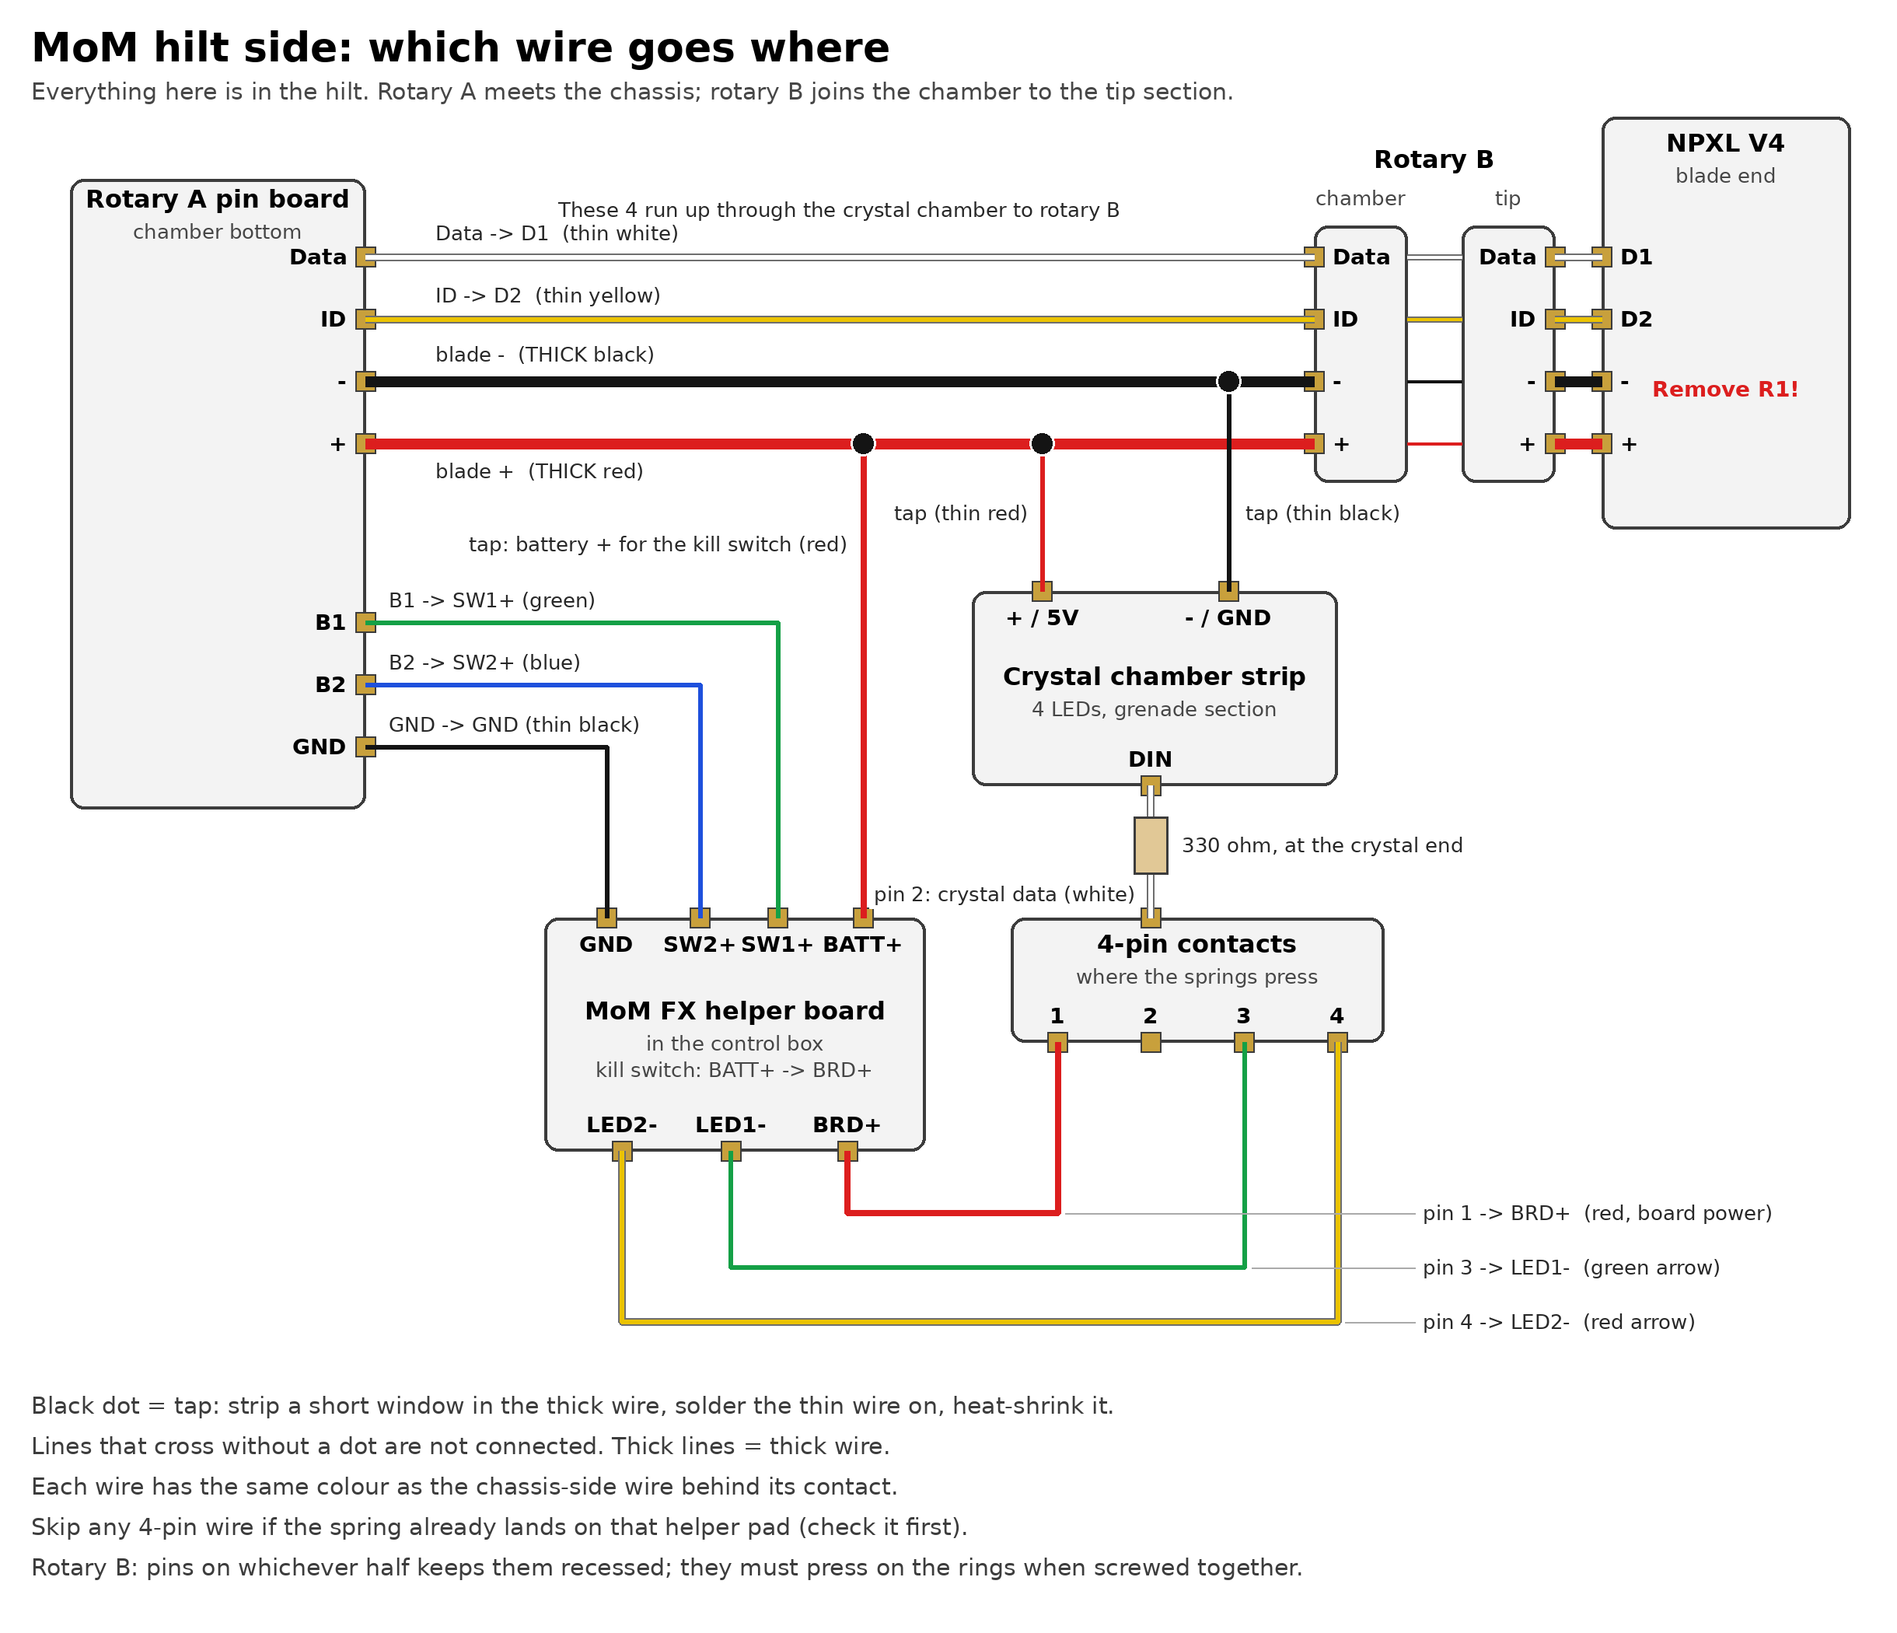
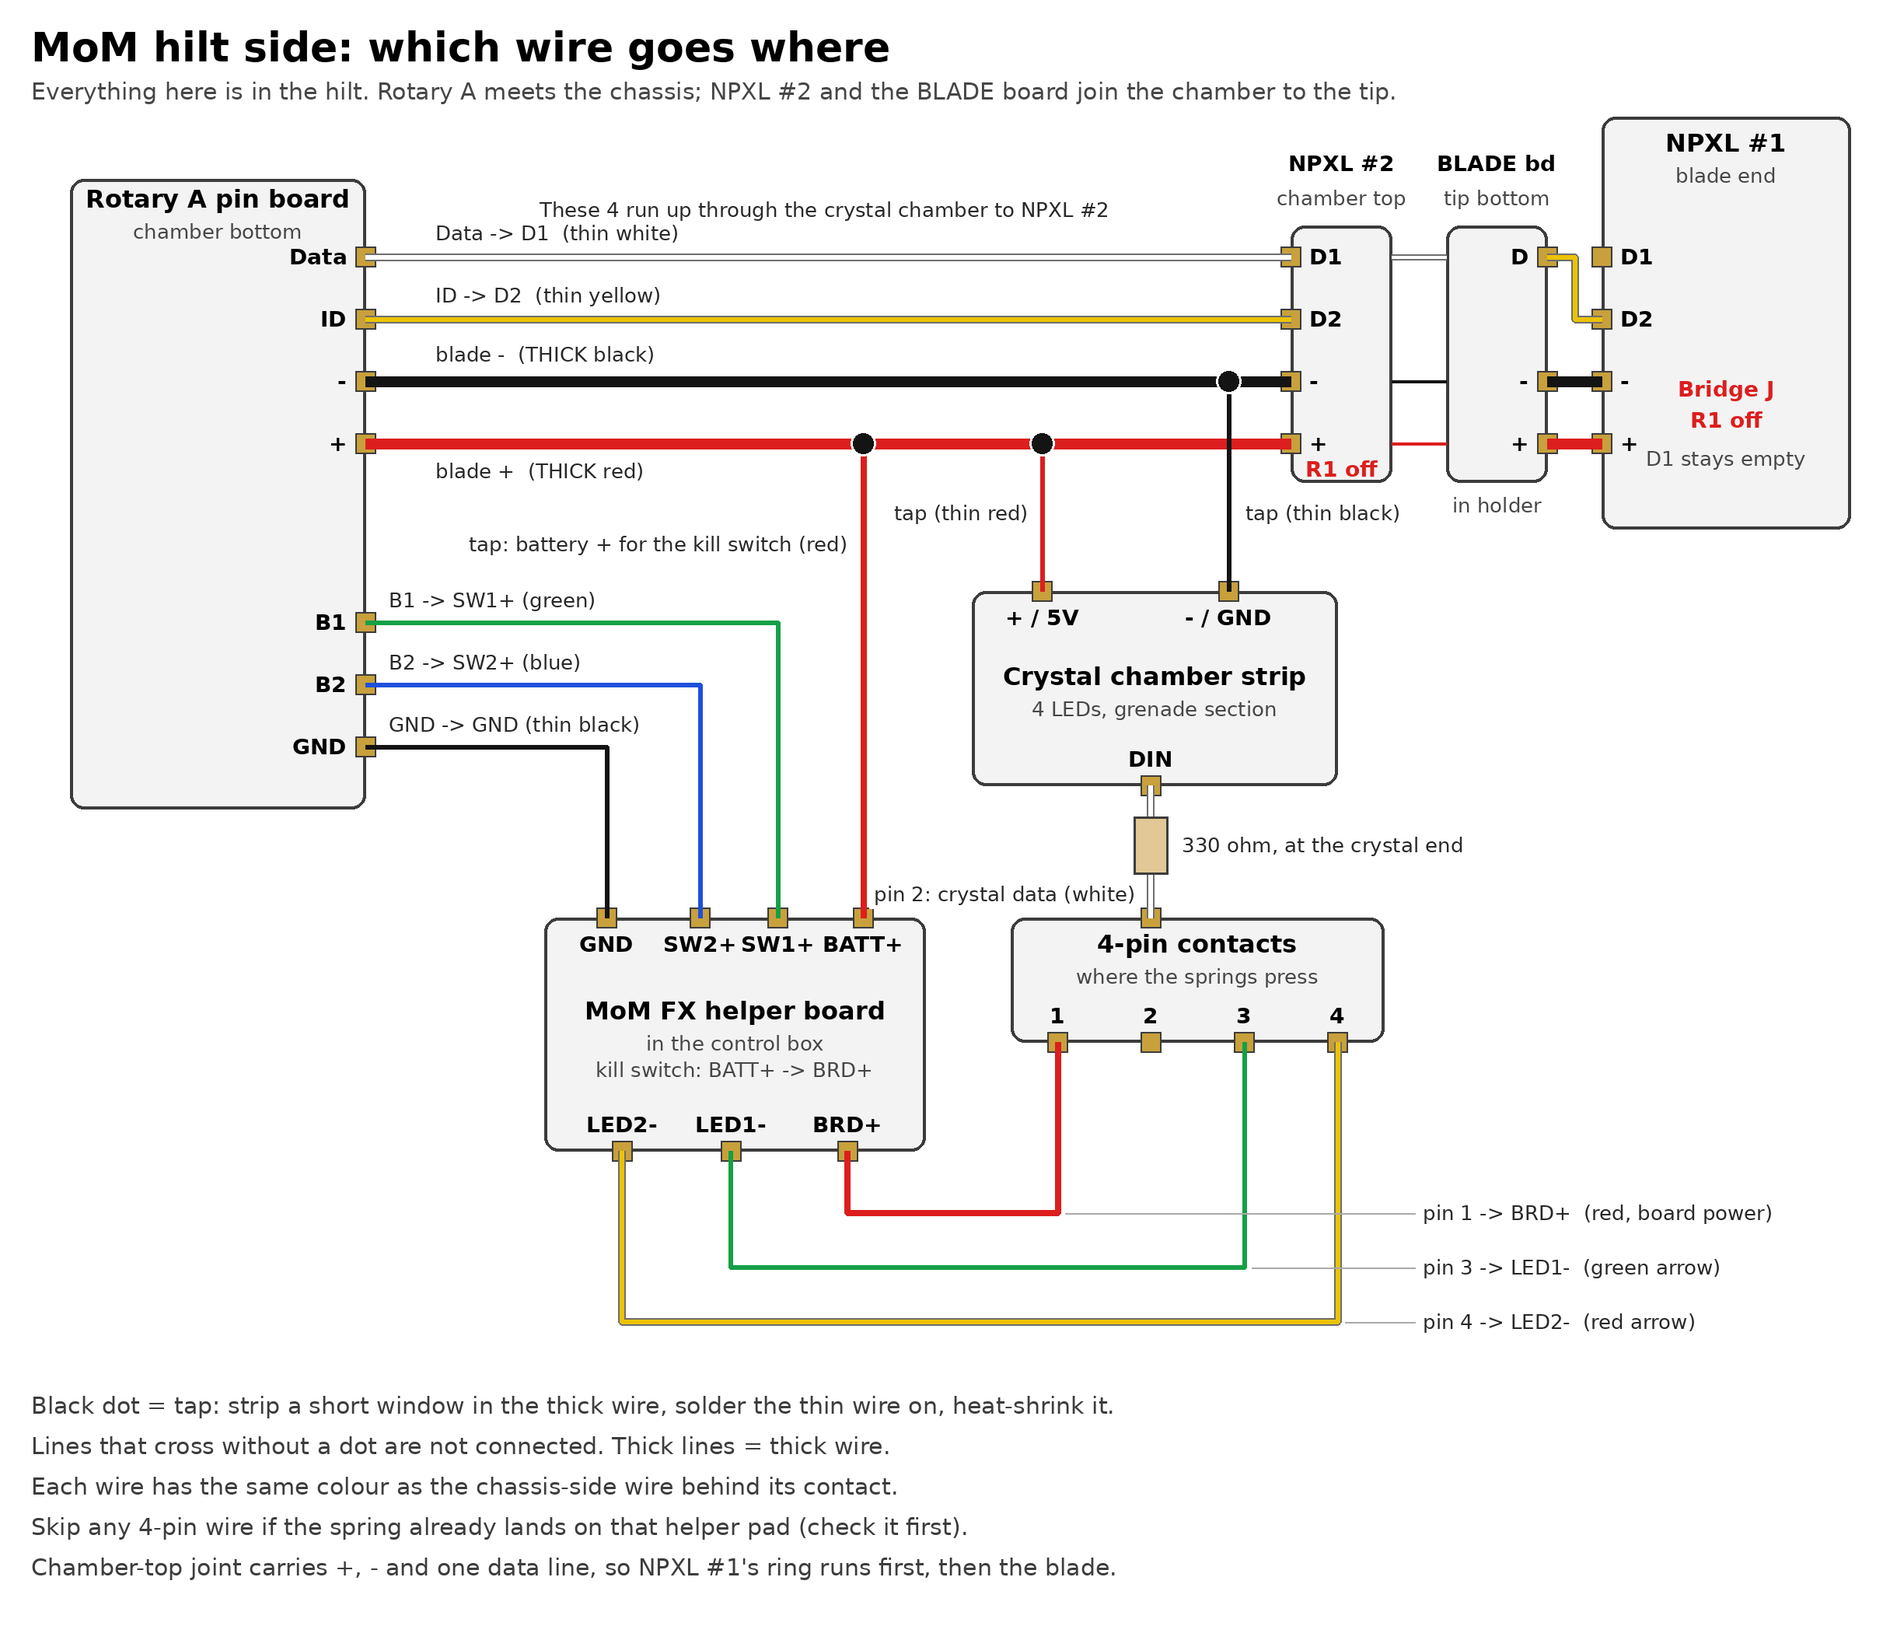
Join the crystal chamber to the tip with NPXL #2 and the BLADE board
No CHC part fits at the top of the chamber. NPXL #2 sits there pins up
and presses on the BLADE board in the designer's pixel holder, which
passes +, - and one data line. NPXL #1 at the blade end is chained
(Option 3). The config change for the longer data chain is still to do.

Claude-Session: https://claude.ai/code/session_01265pwD5zDbVVSh7CxSi4nL

diff --git a/saber-wiring/README.md b/saber-wiring/README.md
@@ -17,8 +17,9 @@ The configurator doesn't know about the Shtok rotary connector or the MoM helper
 | 18650 3120 mAh protected cell (1 of the 2) | Battery. Protected cells are a few mm longer than unprotected ones, so check it fits between the spring contacts |
 | Spring battery contacts | Hold the battery; it comes out to charge |
 | 2 A charger | External, shared with the Obi-Wan. There's no charge port in this build |
-| Shtok Rotary NeoPixel & 2 Button PCB connector set (2 sets) | **A** joins the removable chassis to the bottom of the crystal chamber: power, blade data, connector-LED data and both buttons. **B** joins the top of the crystal chamber to the tip section: power and both data lines |
-| Shtok NPXL V4 hilt-side connector + 1" holder | Where the blade plugs in. Has 16 LEDs of its own |
+| Shtok Rotary NeoPixel & 2 Button PCB connector set (1 set) | Joins the removable chassis to the bottom of the crystal chamber. Carries power, blade data, connector-LED data and both buttons |
+| Shtok NPXL V4 hilt-side connectors (2) + 1" holder | **#1**, in the 1" holder at the blade end, is where the blade plugs in. **#2** sits at the top of the crystal chamber, pins up. Each has 16 LEDs of its own |
+| Round **BLADE** board (Shtok blade-side NPXL board, 5 LEDs) + the designer's copper and black pixel holder | Sits at the bottom of the tip section, flat contacts down onto NPXL #2's pins. Joins the crystal chamber to the tip: +, − and one data line |
 | 330 Ω 0603 resistor (surface-mount chip marked "331", on a paper strip; 0603 is 1.6 × 0.8 mm) | In series on the **crystal chamber** data wire, at the crystal end. Tin both ends, solder the wire from 4-pin pin 2 to one end and the crystal's DIN to the other, then cover it with heat shrink |
 | WS2812 mini strip (cut 2–4 LEDs off) | Crystal chamber light |
 | 4-pin SMT spring-loaded connector | In the chassis end, beside the rotary ring board. The designer's spec: SMT, 2.5 × 10–11 mm, uncompressed pins no taller than 4 mm. Carries the kill-switch return and the two control-box lights (see "MoM FX helper board") |
@@ -35,14 +36,14 @@ The Saber Armory order covers both sabers.
 | Proffieboard v3.9 ×2 | 1 | 1 | |
 | FSC-BT909 Bluetooth PCB Unit ×2 | 1 | 1 | |
 | 28 mm 4 Ω 3 W speaker ×2 | 1 | 1 | |
-| Rotary NeoPixel & 2 Button connector set ×2 | 2: chassis to crystal chamber, and crystal chamber to tip | | |
+| Rotary NeoPixel & 2 Button connector set ×2 | 1: chassis to crystal chamber | | 1 spare |
 | Keeppower 18650 3120 mAh dual pack | 1 cell | | 1 spare cell |
 | Keeppower 21700 5000 mAh | | 1 | |
 | Spring Battery Contacts Set | ✓ | | |
 | Battery Contacts Set (Keystone) | | ✓ | |
-| NPXL V4 hilt side, short pins, assembled ×3 (17.5 mm) | 1 | 1 | 1 spare |
+| NPXL V4 hilt side, short pins, assembled ×3 (17.5 mm) | 2: blade end and top of crystal chamber | 1 | |
 | NPXL V3/V4 hilt-side holder 1" | ✓ | Not needed: its emitter takes the NPXL directly | |
-| NPXL blade-side LED board (the round "BLADE" board with 5 LEDs) | | ✓ | Spare if the Obi-Wan's blade arrives with its board installed |
+| NPXL blade-side LED board (the round "BLADE" board with 5 LEDs) | ✓ chamber-to-tip joint | | Only if the Obi-Wan's blade has its own contact board; check its end |
 | 330 Ω 0603 SMD resistor ×2 | 1 | 1 | |
 | WS2812 2020 mini strip, 10 LEDs | 2–4 LEDs | | The rest |
 | KR 128x32 OLED, white | | ✓ | |
@@ -174,6 +175,8 @@ Where each pad is on the back (the side printed **HILT**), from the manual's pag
 
 The manual's wire sizes for + and −: one 22 AWG, two 24 AWG or three 26 AWG wires each, soldered to any of that polarity's pads. Data wires can be 28–30 AWG.
 
+The MoM has two of these. **NPXL #2**, at the top of the crystal chamber, is wired as below (Option 4). **NPXL #1**, at the blade end, gets only one data line through the chamber-top joint, so it uses the manual's **Option 3**: data into **D2**, R1 removed, jumper **J** bridged, D1 left empty. Its 16 LEDs then come first in the chain and the blade follows.
+
 This is the manual's **Option 4**: blade and connector LEDs on separate data wires, which is also what the configurator draws. **Option 4 needs resistor R1 removed.** R1 is the tiny resistor next to D2, labeled R1 in the diagram. If R1 is still fitted, D1 and D2 are tied together through it, and two data outputs end up fighting each other. Leave R2 in place.
 
 The manual's own Proffieboard example for Option 4 matches this config: blade on Data1 and the connector's 16 LEDs on Data2, both on `PowerPINS<bladePowerPin2, bladePowerPin3>`, with `SHARED_POWER_PINS`. The only difference is that this config splits the 16 LEDs into two interleaved halves, as the configurator does. Both work.
@@ -196,7 +199,7 @@ This set has one data contact plus an **ID** contact. The blade and the connecto
 
 In the MoM the buttons do use B1, B2 and GND, because the 4-pin pogo is taken up by the kill switch and the control-box lights. On the hilt side, three short wires run from the pin board (CHC_M) to the helper board.
 
-The MoM uses a **second set (B)** too, because the crystal chamber comes off the tip section. Its two halves sit at the top of the crystal chamber and the bottom of the tip section, and it carries +, −, Data and ID across that joint. Its B1, B2 and GND contacts stay unused. Put its pin board on whichever side keeps the pins recessed.
+The joint between the crystal chamber and the tip section uses NPXL #2 and the BLADE board instead (see [Hilt side](#hilt-side-step-by-step)). No CHC part fits at the top of the chamber.
 
 ## MoM FX helper board
 
@@ -244,8 +247,9 @@ The config already drives LED1 and LED2 as two plain LEDs on LED5 and LED6 (blad
 
 None of the install videos show this wiring, so it's worked out from the parts' pinouts and the chassis designer's notes. The hilt side has three groups of wires:
 
-- **Up through the crystal chamber: 4 wires.** Blade + and − (thick), Data and ID (thin), from rotary **A**'s pin board at the bottom of the chamber to rotary **B** at its top. The crystal chamber comes off the tip section, so rotary B carries these four across that joint.
-- **Tip section: the same 4 wires.** From rotary B's other half down in the tip section, up to the NPXL. Nothing else goes above the crystal chamber.
+- **Up through the crystal chamber: 4 wires.** Blade + and − (thick), Data and ID (thin), from rotary **A**'s pin board at the bottom of the chamber to **NPXL #2** at its top, pins up. Its own 16 LEDs take ID (Data2).
+- **The chamber-to-tip joint:** NPXL #2's pins press on the **BLADE** board, held in the designer's copper and black pixel holder at the bottom of the tip section. Only +, − and one data line (the centre pin) cross it.
+- **Tip section: 3 wires.** From the BLADE board up to **NPXL #1** at the blade end. NPXL #1 is chained (Option 3): data into D2, J bridged, so its 16 LEDs come first and the blade follows.
 - **At the crystal chamber: 3 wires.** + and − tapped off the blade + and − wires as they pass, and data from 4-pin pin 2.
 - **At the helper board in the control box:** the buttons (B1, B2 and GND from the rotary pin board), battery + for the kill switch (a tap off blade +) and the 4-pin contacts.
 
@@ -253,14 +257,13 @@ None of the install videos show this wiring, so it's worked out from the parts' 
 
 | From | To | Wire | Colour |
 | --- | --- | --- | --- |
-| Rotary A pin board **+** | Rotary B (chamber half) **+** | Thick | Red |
-| Rotary A pin board **−** | Rotary B (chamber half) **−** | Thick | Black |
-| Rotary A pin board **Data** | Rotary B (chamber half) **Data** | Thin | White |
-| Rotary A pin board **ID** | Rotary B (chamber half) **ID** | Thin | Yellow |
-| Rotary B (tip half) **+** | NPXL **+** | Thick | Red |
-| Rotary B (tip half) **−** | NPXL **−** | Thick | Black |
-| Rotary B (tip half) **Data** | NPXL **D1** | Thin | White |
-| Rotary B (tip half) **ID** | NPXL **D2** | Thin | Yellow |
+| Rotary A pin board **+** | NPXL #2 **+** | Thick | Red |
+| Rotary A pin board **−** | NPXL #2 **−** | Thick | Black |
+| Rotary A pin board **Data** | NPXL #2 **D1** | Thin | White |
+| Rotary A pin board **ID** | NPXL #2 **D2** | Thin | Yellow |
+| BLADE board **+** (the four outer pads marked +) | NPXL #1 **+** | Thick | Red |
+| BLADE board **−** (the pads marked −) | NPXL #1 **−** | Thick | Black |
+| BLADE board **D** (top centre, above its resistor) | NPXL #1 **D2** | Thin | Yellow |
 | Rotary A pin board **B1** | Helper **SW1+** | Thin | Green |
 | Rotary A pin board **B2** | Helper **SW2+** | Thin | Blue |
 | Rotary A pin board **GND** | Helper **GND** | Thin | Black |
@@ -275,11 +278,11 @@ None of the install videos show this wiring, so it's worked out from the parts' 
 Each wire has the same colour as the chassis-side wire behind its contact, so a colour means the same thing end to end.
 
 1. **Find where the 4-pin springs land.** Fit the chassis and see what the four springs press on in the hilt. If they land on helper board pads, those pads set the pin order: the spring on **BRD+** is pin 1 and gets the red BATT+ wire on the chassis side, and so on. If they land on blank contacts, you pick the order; keep the colours as in the tables. With the multimeter on beep, also test each landing spot against the helper's pads. Any that's already joined to its pad (pin 1 → BRD+, pin 3 → LED1−, pin 4 → LED2−) needs no wire in step 7. Pin 2 may land on DATA1 or DATA2 (helper check 4).
-2. **NPXL:** remove **R1**. Leave R2.
+2. **NPXLs:** remove **R1** on both and leave R2. On **NPXL #1** also bridge **J** and leave **D1** empty.
 3. **Blade wires, in two runs.**
-   - **Rotary B:** solder the 13 spring pins into one of its boards. Put the pin board on whichever side keeps the pins recessed. Its pins must press on the other half's rings when the chamber and tip are screwed together.
-   - **Tip section:** rotary B's tip half → NPXL. + → +, − → −, Data → D1, ID → D2.
-   - **Crystal chamber:** rotary A's pin board → rotary B's chamber half. + → +, − → −, Data → Data, ID → ID. Before soldering the thick ones, slide on heat shrink for the taps: two pieces on the red (crystal + and kill switch), one on the black (crystal −).
+   - **Chamber-to-tip joint:** press the BLADE board into the pixel holder, flat contact face down (toward the chamber), the side printed "BLADE" up. Fit the holder at the bottom of the tip section. Dry-fit the tip onto the chamber with NPXL #2 in place: its pins should compress partway and the centre pin should land on the BLADE board's centre pad.
+   - **Tip section:** BLADE board → NPXL #1. + → +, − → −, D → D2. Work out of the tip section's open bottom with it unscrewed, and leave only a couple of cm of slack.
+   - **Crystal chamber:** rotary A's pin board → NPXL #2. + → +, − → −, Data → D1, ID → D2. Before soldering the thick ones, slide on heat shrink for the taps: two pieces on the red (crystal + and kill switch), one on the black (crystal −).
 4. **Buttons.** Rotary A pin board B1 → SW1+, B2 → SW2+, GND → GND. Short thin wires.
 5. **Taps.** Where a tap goes, score round the thick wire's insulation twice about 5 mm apart, slit between the cuts and peel that piece off. Wrap the thin wire's tinned end once round the bare strands, solder, then slide the heat shrink over and shrink it.
    - Blade + → crystal + (thin red) and blade − → crystal − (thin black), where the wires pass the crystal chamber.
@@ -288,17 +291,20 @@ Each wire has the same colour as the chassis-side wire behind its contact, so a 
 6. **Crystal data.** Run the white wire from the 4-pin pin 2 contact (or the DATA pad it lands on) to the crystal. Stop about 1 cm short of DIN, solder the 330 Ω in line there, add a short stub to DIN and heat-shrink over the resistor. Use the strip's DIN end, where the arrows point away from the wire.
 7. **4-pin contacts to the helper**, unless step 1 showed they're already joined: pin 1 → BRD+, pin 3 → LED1−, pin 4 → LED2−.
 8. **Multimeter checks, battery out.**
-   - Should beep, with the chamber and tip screwed together: rotary A pin board + ↔ NPXL +, − ↔ −, Data ↔ D1, ID ↔ D2. Crystal + ↔ blade +, crystal − ↔ blade −.
-   - Rotary B's unused contacts (B1, B2, GND) must not beep to anything.
+   - Should beep, with the chamber and tip screwed together: rotary A pin board + ↔ NPXL #1 +, − ↔ NPXL #1 −. Rotary A Data ↔ NPXL #2 D1. Crystal + ↔ blade +, crystal − ↔ blade −.
+   - Must not beep: NPXL #1 D1 to anything (it stays empty), and rotary A Data ↔ rotary A ID.
    - Must not beep: blade + ↔ blade −, and helper BATT+ ↔ helper GND.
    - Kill switch off: helper BATT+ ↔ BRD+ silent. On: it beeps.
-9. **First power-up.** Kill switch off, battery in, chassis in, then switch on: you should hear the boot sound. Ignite. The blade, the NPXL's LEDs, the crystal and both arrow lights should come on.
+9. **First power-up.** Kill switch off, battery in, chassis in, then switch on: you should hear the boot sound. Ignite. The blade, both NPXLs' LEDs, the crystal and both arrow lights should come on.
    - Crystal dark: check it's wired at the DIN end, check the 330 Ω joints, and check the LED count in the config.
    - Arrow colours swapped: swap `bladePowerPin5` and `bladePowerPin6` in the config.
    - **Pin 1 check:** run it for a few minutes at full volume with some swings and clashes. The 4-pin should be no more than slightly warm, and the board shouldn't restart on loud clashes. If it does either, lower `VOLUME`, or put pin 2 back on BATT+ and give the crystal data another route.
 
 ## Still to confirm
 
+- **Config for the chained data line:** NPXL #1's 16 LEDs (and maybe the BLADE board's 5) now come before the blade's 130 on Data1. The bench test shows the exact count; then blade 1 becomes one longer strip split into sections, Data2 drives NPXL #2's ring, and the board needs reflashing. The config in this repo doesn't have that change yet.
+- **Brass-cup part:** confirm it faces up toward the blade, so NPXL #1 and the 1" holder go there.
+- **BLADE board:** confirm the Obi-Wan's blade has its own contact board, so this one is free for the MoM.
 - **Helper board:** the four checks above, and whether Veracity's v4.1 is the chassis designer's V2.
 - **Kill switch for the MoM:** the one High Amp Kill Switch in the order is counted for the Obi-Wan. The MoM's switch sits on the helper board, between its BATT+ and BRD+ (check 2 should show the U$2 pads there). Because blade + comes straight from the battery, this switch only carries the board's own current, about 1 A at most. Check the mini black slide switch's rating, or ask the kit maker which switch U$2 is meant for.
 - **4-pin connector part:** the designer's spec is a 4-pin **SMT** spring-loaded connector, 2.5 × 10–11 mm, with uncompressed pins no taller than 4 mm (the chassis takes 3 or 4 mm). The Treedix strip doesn't fit that: it's through-hole, and its 7.5 mm pins are nearly twice the maximum. Measure the 4-pin SMT connector you already had. If it's about 2.5 × 10–11 mm with pins no taller than 4 mm, it's the right part after all, used springs-out with no flipped strip or target. If not, look for one to that spec, for example on Mouser as the designer suggests.
